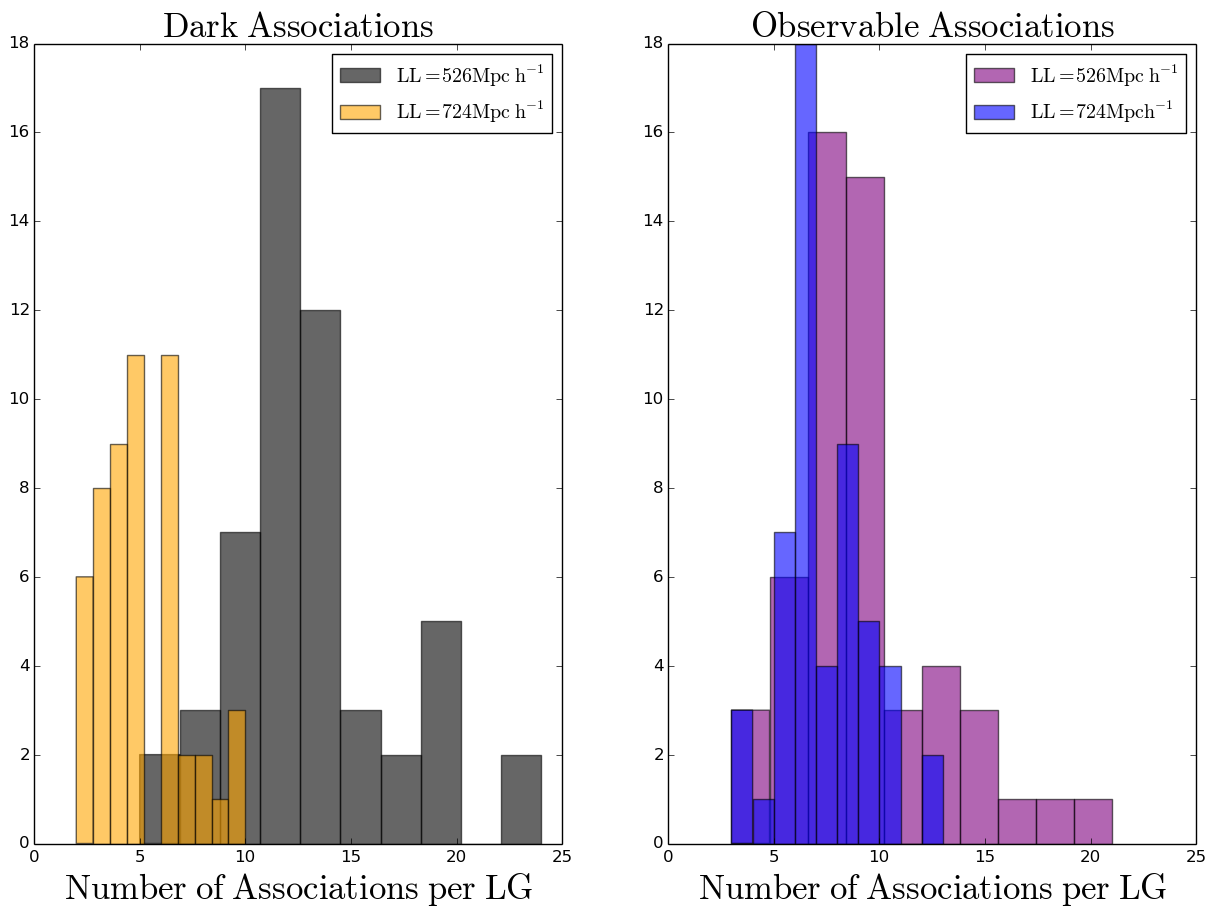
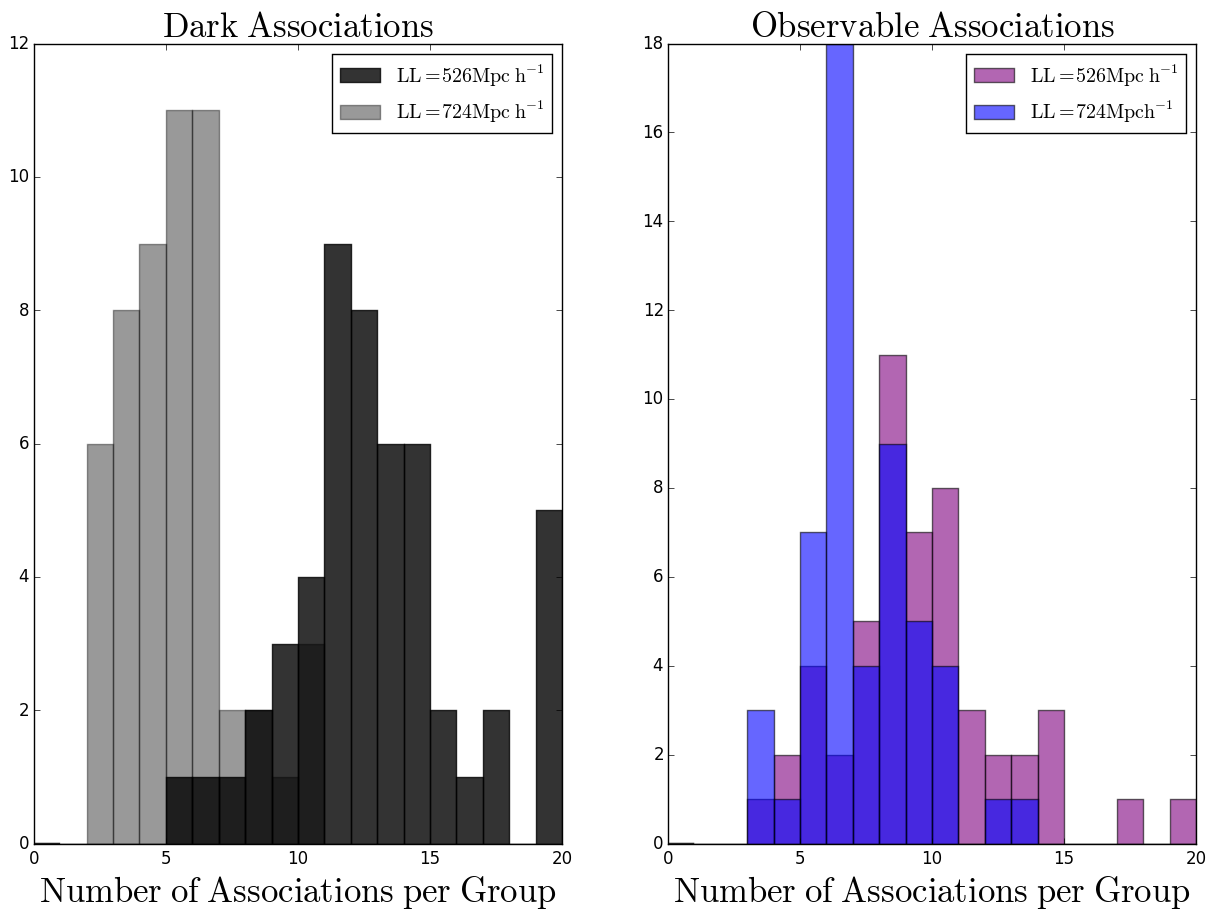
bins=equal size

diff --git a/code/FOF/Associations_finder.py b/code/FOF/Associations_finder.py
@@ -12,7 +12,7 @@ N_asso_stars_max = []
 NassDM_min = []
 NassDM_max = []
 NassStars_min = []
-NassDtars_max = []
+NassStars_max = []
 
 for i in range (53):
 	snap_name = "Illustris_group_"+str(i)+".dat"
@@ -33,30 +33,52 @@ for i in range (53):
         
 	Nass, asso =  N_associations("A_min"+snap_fof_DM)
         NassDM_min += Nass
+	Nass_max, asso =  N_associations("A_max"+snap_fof_DM)
+        NassDM_max += Nass_max
+        Nass_stars, asso =  N_associations("A_min"+snap_fof_stars)
+        NassStars_min += Nass
+        Nass_stars_max, asso =  N_associations("A_max"+snap_fof_stars)
+        NassStars_max += Nass_stars_max
+
+
 plt.figure(figsize=(15, 10))
 plt.subplot(1, 2, 1)
-plt.hist(N_asso_dm_min, color='k', alpha=0.6, label=r"$\mathrm{LL = 526Mpc\ h^{-1}}$")
-plt.hist(N_asso_dm_max, color='orange', alpha=0.6, label=r"$\mathrm{LL = 724Mpc\ h^{-1}}$")
+plt.hist(N_asso_dm_min, color='k', alpha=0.8, label=r"$\mathrm{LL = 526Mpc\ h^{-1}}$", bins=range(0, 20 + 1, 1))
+plt.hist(N_asso_dm_max, color='k', alpha=0.4, label=r"$\mathrm{LL = 724Mpc\ h^{-1}}$", bins=range(0, 20 + 1, 1))
 plt.title(r"$\mathrm{Dark\ Associations}$", fontsize=25)
-plt.xlabel(r"$\mathrm{Number\ of\ Associations\ per\ LG}$", fontsize=25)
+plt.xlabel(r"$\mathrm{Number\ of\ Associations\ per\ Group}$", fontsize=25)
 plt.legend()
 #plt.savefig("Nassociations_DM_min.png", bbox_inches="tight")
 
 
 plt.subplot(1, 2, 2)
-plt.hist(N_asso_stars_min, color='purple', alpha=0.6, label=r"$\mathrm{LL = 526Mpc\ h^{-1}}$")
-plt.hist(N_asso_stars_max, color='blue', alpha=0.6, label=r"$\mathrm{LL = 724Mpc h^{-1}}$")
+plt.hist(N_asso_stars_min, color='purple', alpha=0.6, label=r"$\mathrm{LL = 526Mpc\ h^{-1}}$", bins=range(0, 20 + 1, 1))
+plt.hist(N_asso_stars_max, color='blue', alpha=0.6, label=r"$\mathrm{LL = 724Mpc h^{-1}}$", bins=range(0, 20 + 1, 1))
 plt.title(r"$\mathrm{Observable\ Associations}$", fontsize=25)
-plt.xlabel(r"$\mathrm{Number\ of\ Associations\ per\ LG}$", fontsize=25)
+plt.xlabel(r"$\mathrm{Number\ of\ Associations\ per\ Group}$", fontsize=25)
 plt.legend()
 plt.savefig("Nassociations.png", bbox_inches="tight")
 plt.show()
 plt.close()
 
+plt.figure(figsize=(15, 10))
+plt.subplot(1, 2, 1)
+plt.hist(NassDM_min, color="k", alpha=0.8, label=r"$\mathrm{LL = 526Mpc\ h^{-1}}$", bins=range(0, 20 + 1, 1))
+plt.hist(NassDM_max, color="k", alpha=0.4, label=r"$\mathrm{LL = 724Mpc h^{-1}}$", bins=range(0, 20 + 1, 1))
+plt.xlabel(r"$\mathrm{Number\ of\ members\ per\ Association}$", fontsize=25)
+plt.xlim([0, 20])
+plt.legend()
 
-plt.hist(NassDM_min, bins=20)
+plt.subplot(1, 2, 2)
+plt.hist(NassStars_min, color="purple", alpha=0.6, label=r"$\mathrm{LL = 526Mpc\ h^{-1}}$", bins=range(0, 20 + 1, 1))
+plt.hist(NassStars_max, color="blue", alpha=0.6, label=r"$\mathrm{LL = 724Mpc h^{-1}}$", bins=range(0, 20 + 1, 1))
+plt.xlabel(r"$\mathrm{Number\ of\ members\ per\ Association}$", fontsize=25)
+plt.xlim([0, 20])
+plt.legend()
+plt.savefig("Nmembersassociations.png", bbox_inches="tight")
 plt.show()
 plt.close()
+
 
 """
 print "Dark Matter"
